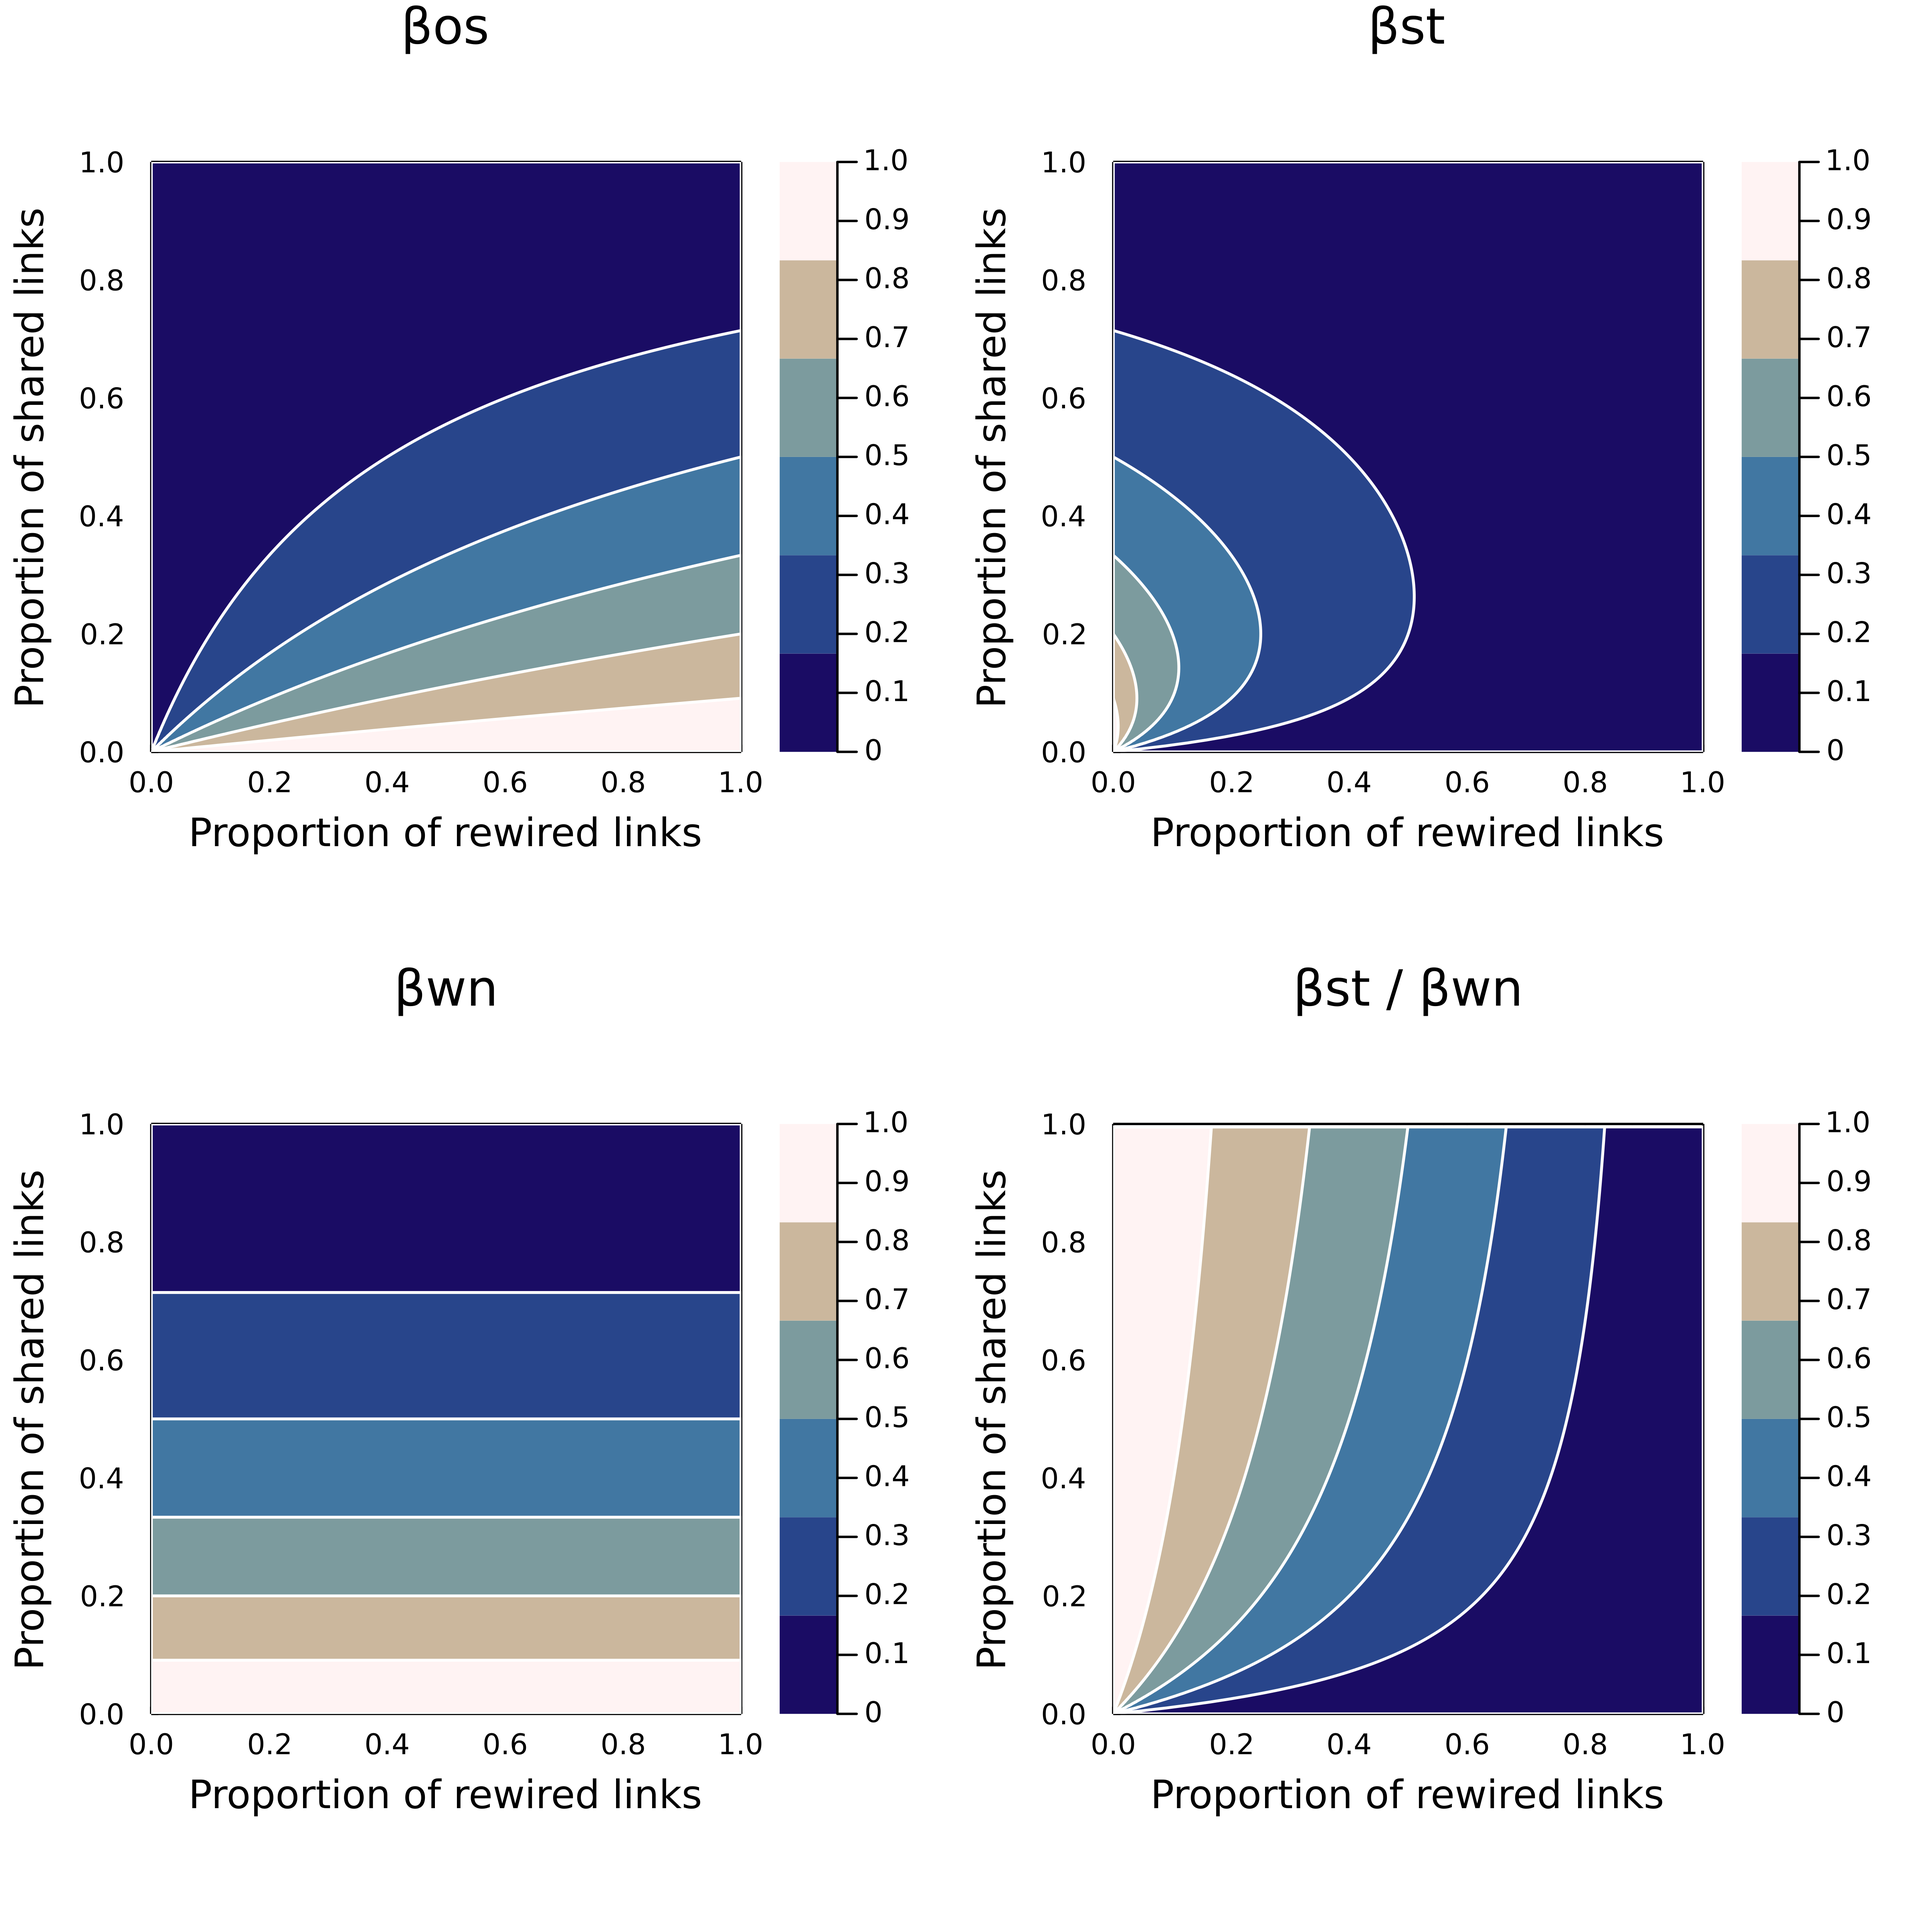
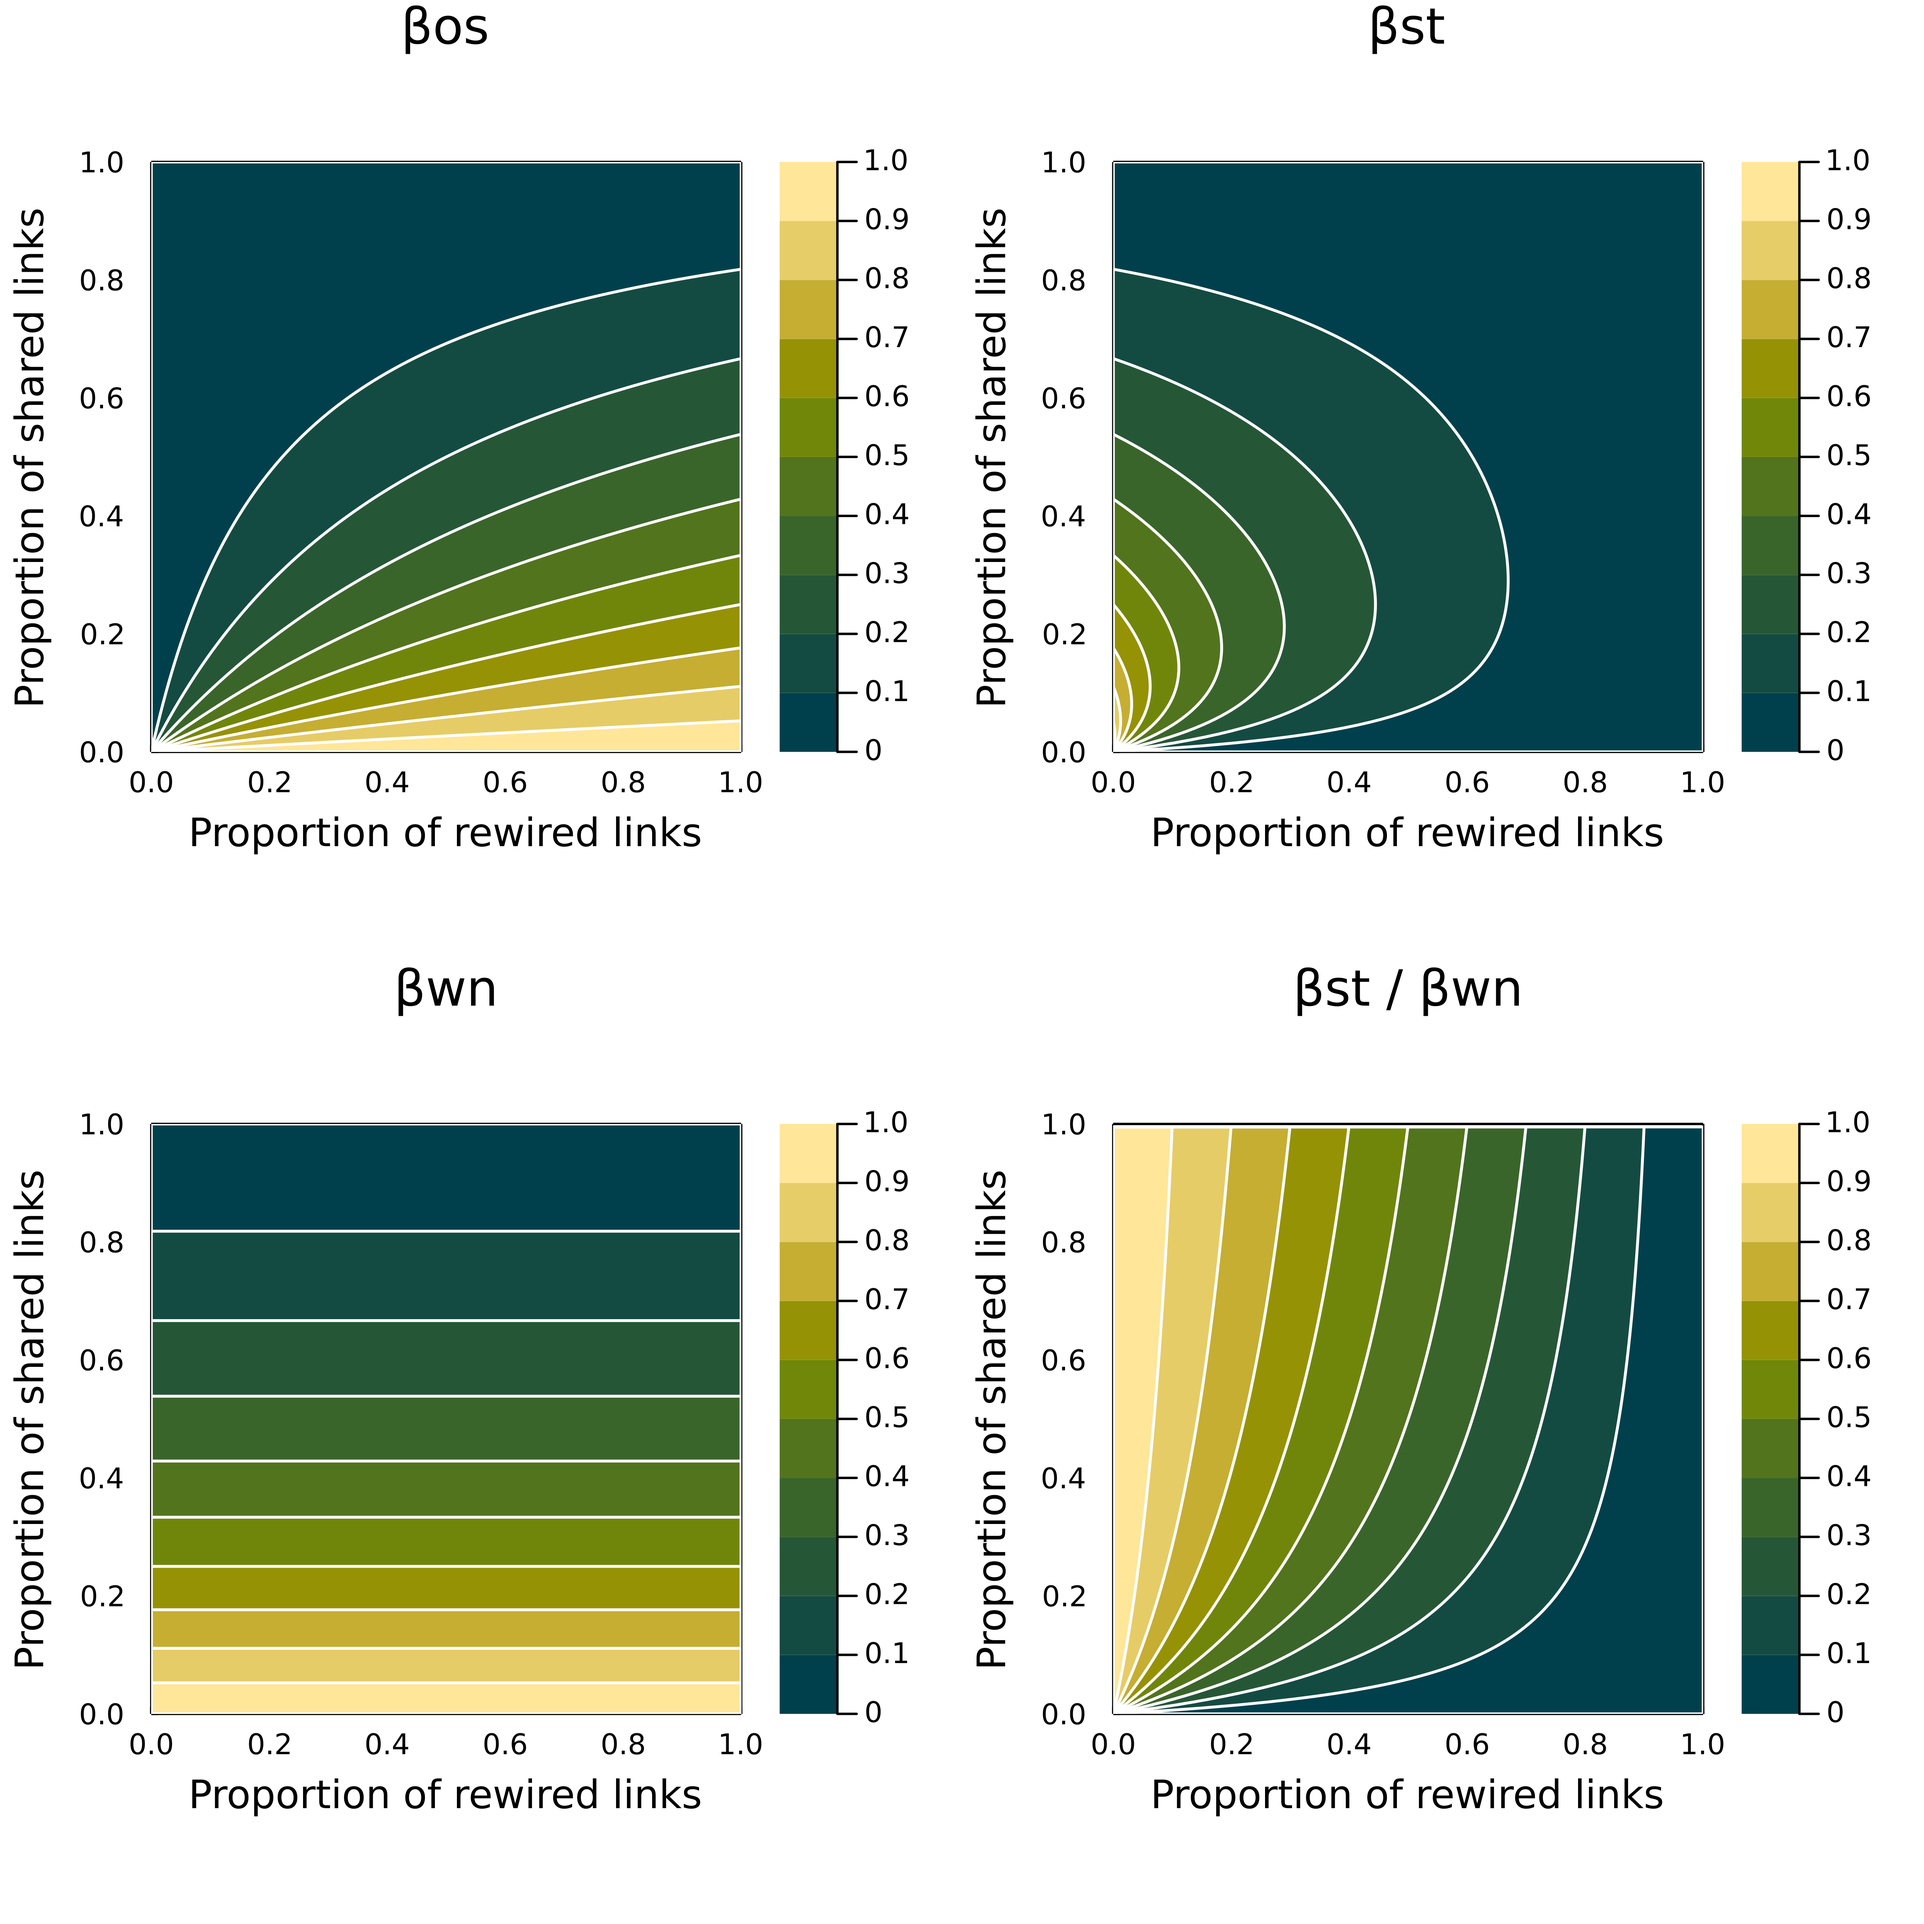
numexp 2 as an analysis + numexp 3

diff --git a/maintext.md b/maintext.md
@@ -253,7 +253,7 @@ it is a quantification of the relative impact of rewiring to overall
 dissimilarity, which, all non-turnover mechanisms being accounted for in the
 decomposition, can be explained by turnover mechanisms.
 
-### Illustration on ireallistically small networks are biased
+### Illustrations on arbitrarily small networks are biased
 
 We can re-calculate the illustration of @Frund2021DisSpe, wherein a pair of
 networks with two shared interactions ($A = 2$) receive either an interaction in
@@ -276,11 +276,18 @@ fact that this fraction is not exactly one-half comes from the fact that the
 $2A$ term), which over-amplifies the effect of shared interactions as the
 network is really small. Running the same calculations with $A = 10$ gives a
 relative importance of the turnover processes of 47%, and $\beta_{st}$ goes to
-$1/2$ as $A/(S+U)$ increases. As an additional caveat, the value of $\beta_{st}$ will depend on the measure of beta-diversity used. Measures that do not count the shared interaction twice are not going to amplify the effect of rewiring.
+$1/2$ as $A/(S+U)$ increases. As an additional caveat, the value of $\beta_{st}$
+will depend on the measure of beta-diversity used. Measures that do not count
+the shared interaction twice are not going to amplify the effect of rewiring.
 
 ### Numerical experiment: $\beta_{os}$ captures rewiring accurately
 
 ![dsds](numexp2.png){#fig:numexp2}
+
+### Numerical experiment: $\beta_{st}$ captures species turnover and connectance accurately
+
+![dsds](numexp3.png){#fig:numexp3}
+
 
 ## Does the partition of network dissimilarity needs a new normalization?
 
